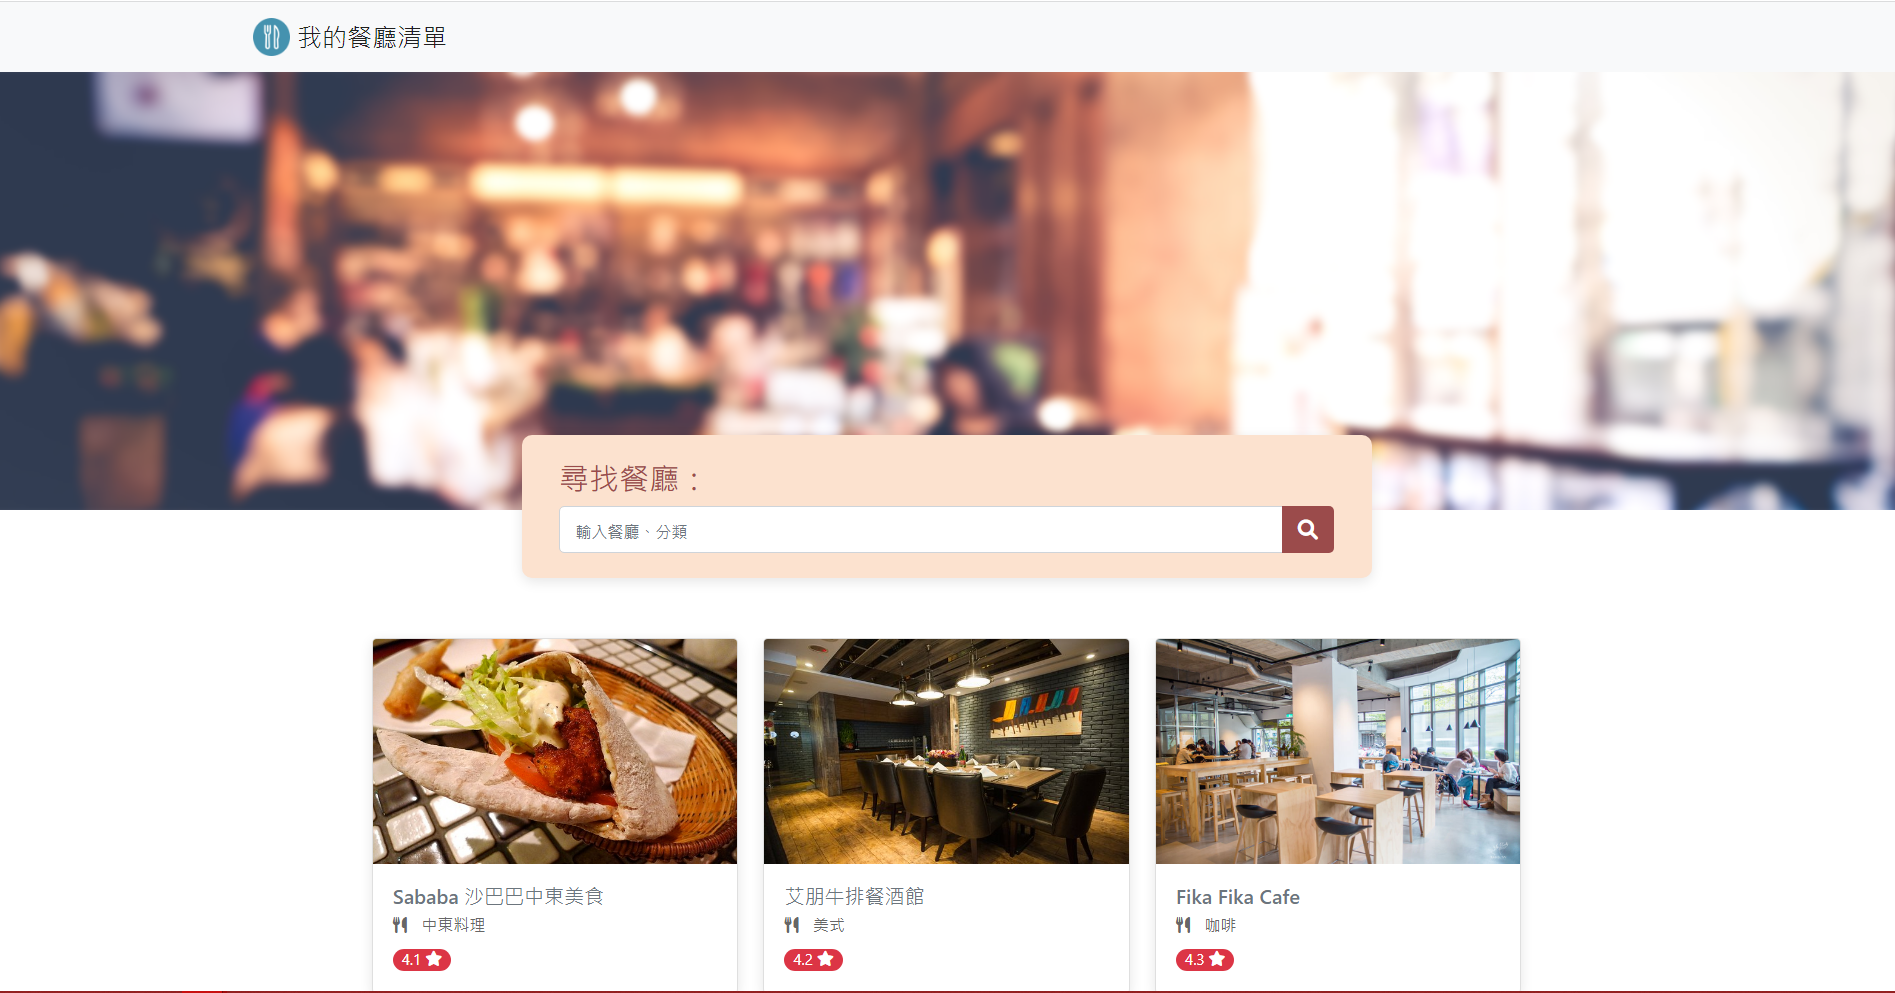
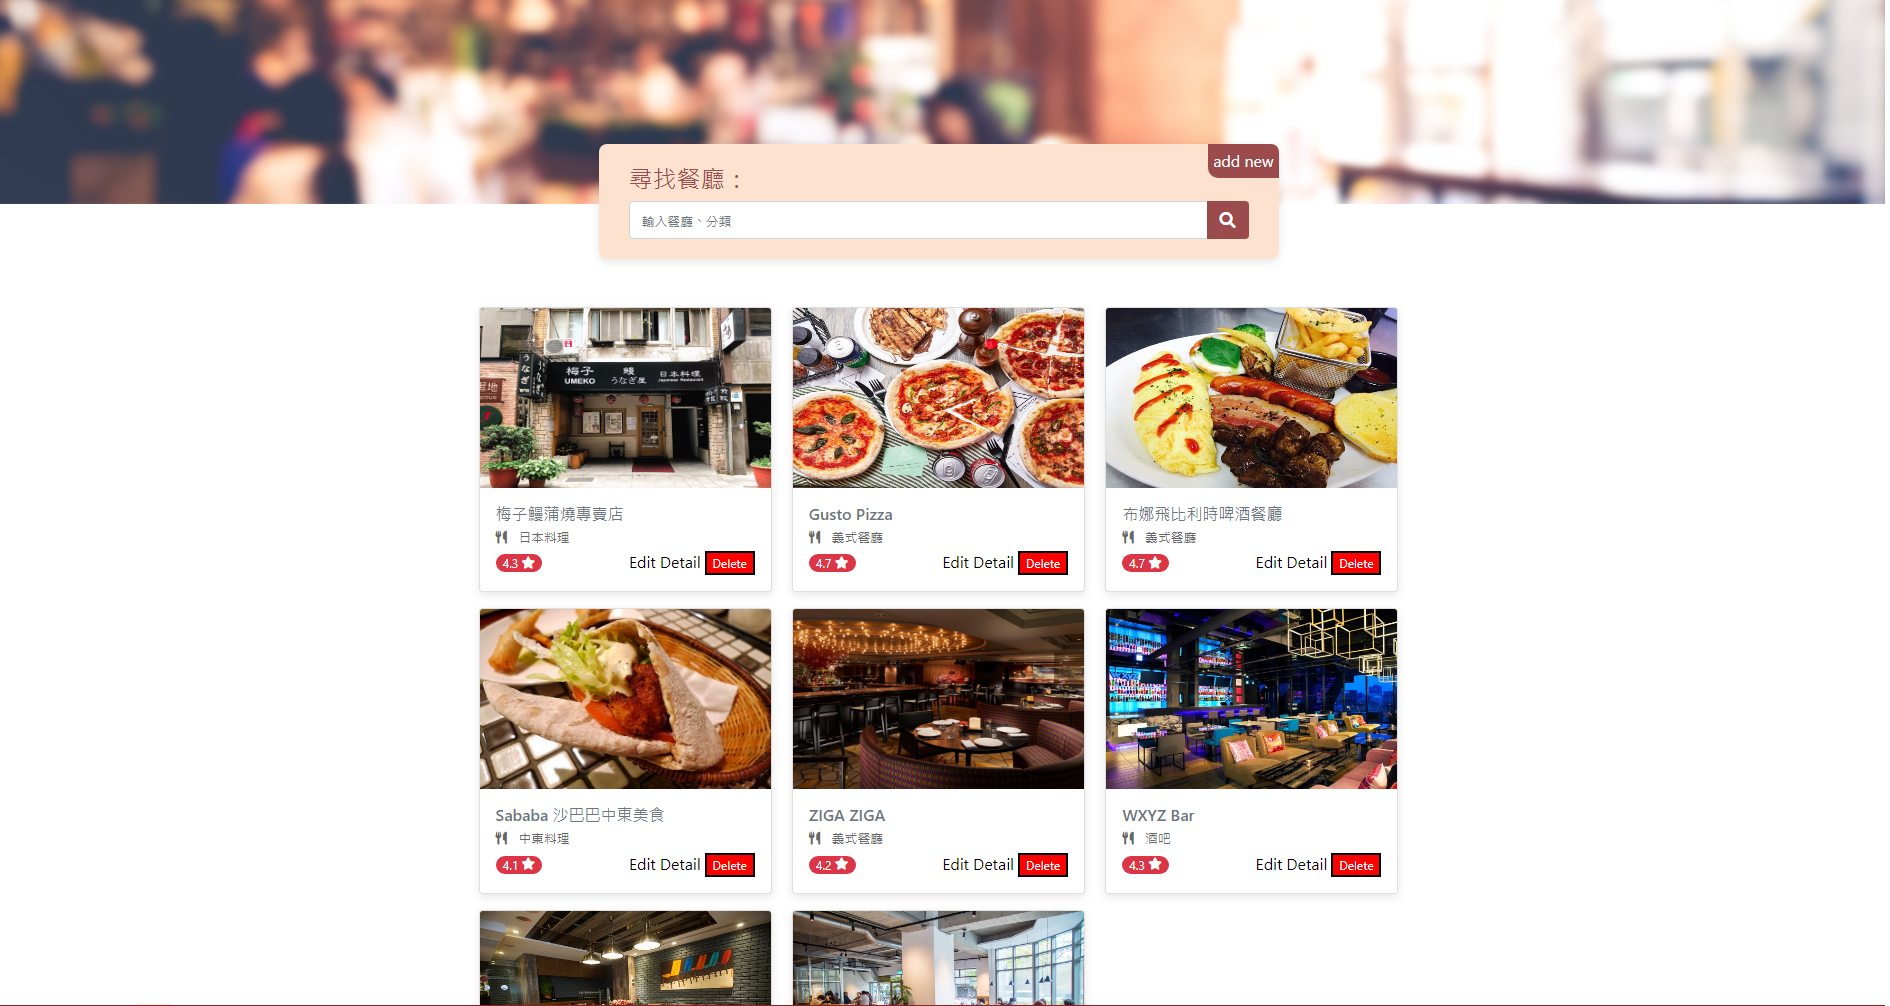
add edit function

diff --git a/public/css/style.css b/public/css/style.css
@@ -78,6 +78,19 @@ header {
   text-shadow: 0 0 10px rgba(0, 0, 0, 0.5);
 }
 
+.restaurant-show-title input{
+  color: white;
+  text-align: center;
+  text-shadow: 0 0 10px rgba(0, 0, 0, 0.5);
+  background-color: rgba(255, 255, 255, 0.7);
+  border: 3px solid #4592af;
+  border-radius: 10px;
+}
+
+.restaurant-show-title input::placeholder{
+  color: white;
+}
+
 @media screen and (max-width: 992px) {
   
   .card img{
@@ -174,4 +187,18 @@ header {
     transform: none;
     margin: 15px 40%;
   }
+}
+
+.finish-btn{
+  font-size: 3rem;
+  padding: 0 60px;
+  margin: 20px 0;
+  color: #4592af;
+  background-color: rgba(255, 255, 255, 0.7);
+  border: solid #4592af;
+  border-radius: 10px;
+  position: relative;
+  top: 5%;
+  left: 50%;
+  transform: translate(-50%, -50%);
 }

diff --git a/models/restaurants.js b/models/restaurants.js
@@ -3,14 +3,14 @@ const Schema = mongoose.Schema
 
 const restaurantSchema = new Schema({
     name: {type: String, required: true},
-    name_en: {type: String, required: true},
+    name_en: {type: String, required: false},
     category: {type: String, required: true},
     image: {type: String, required: true},
     location: {type: String, required: true},
     phone: {type: String, required: true},
-    google_map: {type: String, required: true},
+    google_map: {type: String, required: false},
     rating: {type: Number, required: true},
-    description: {type: String, required: true},
+    description: {type: String, required: false},
 })
 
 module.exports = mongoose.model('Restaurant', restaurantSchema)

diff --git a/app.js b/app.js
@@ -81,6 +81,19 @@ app.post('/restaurants/:id/delete', (req, res) => {
         .catch(error => console.log(error))
 })
 
+app.get('/restaurants/:id/edit', (req, res) => {
+    Restaurant.findById(req.params.id)
+        .lean()
+        .then( restaurant => res.render('edit',{ restaurant }))
+        .catch(error => console.log(error))
+})
+
+app.post('/restaurants/:id/edit', (req, res) => {
+    Restaurant.findByIdAndUpdate(req.params.id, req.body)
+        .then(() => res.redirect(`/restaurants/${req.params.id}`))
+        .catch(error => console.log(error))
+})
+
 app.listen(port, () =>{
     console.log(`Express is listening on http://localhost:${port}`)
 })
